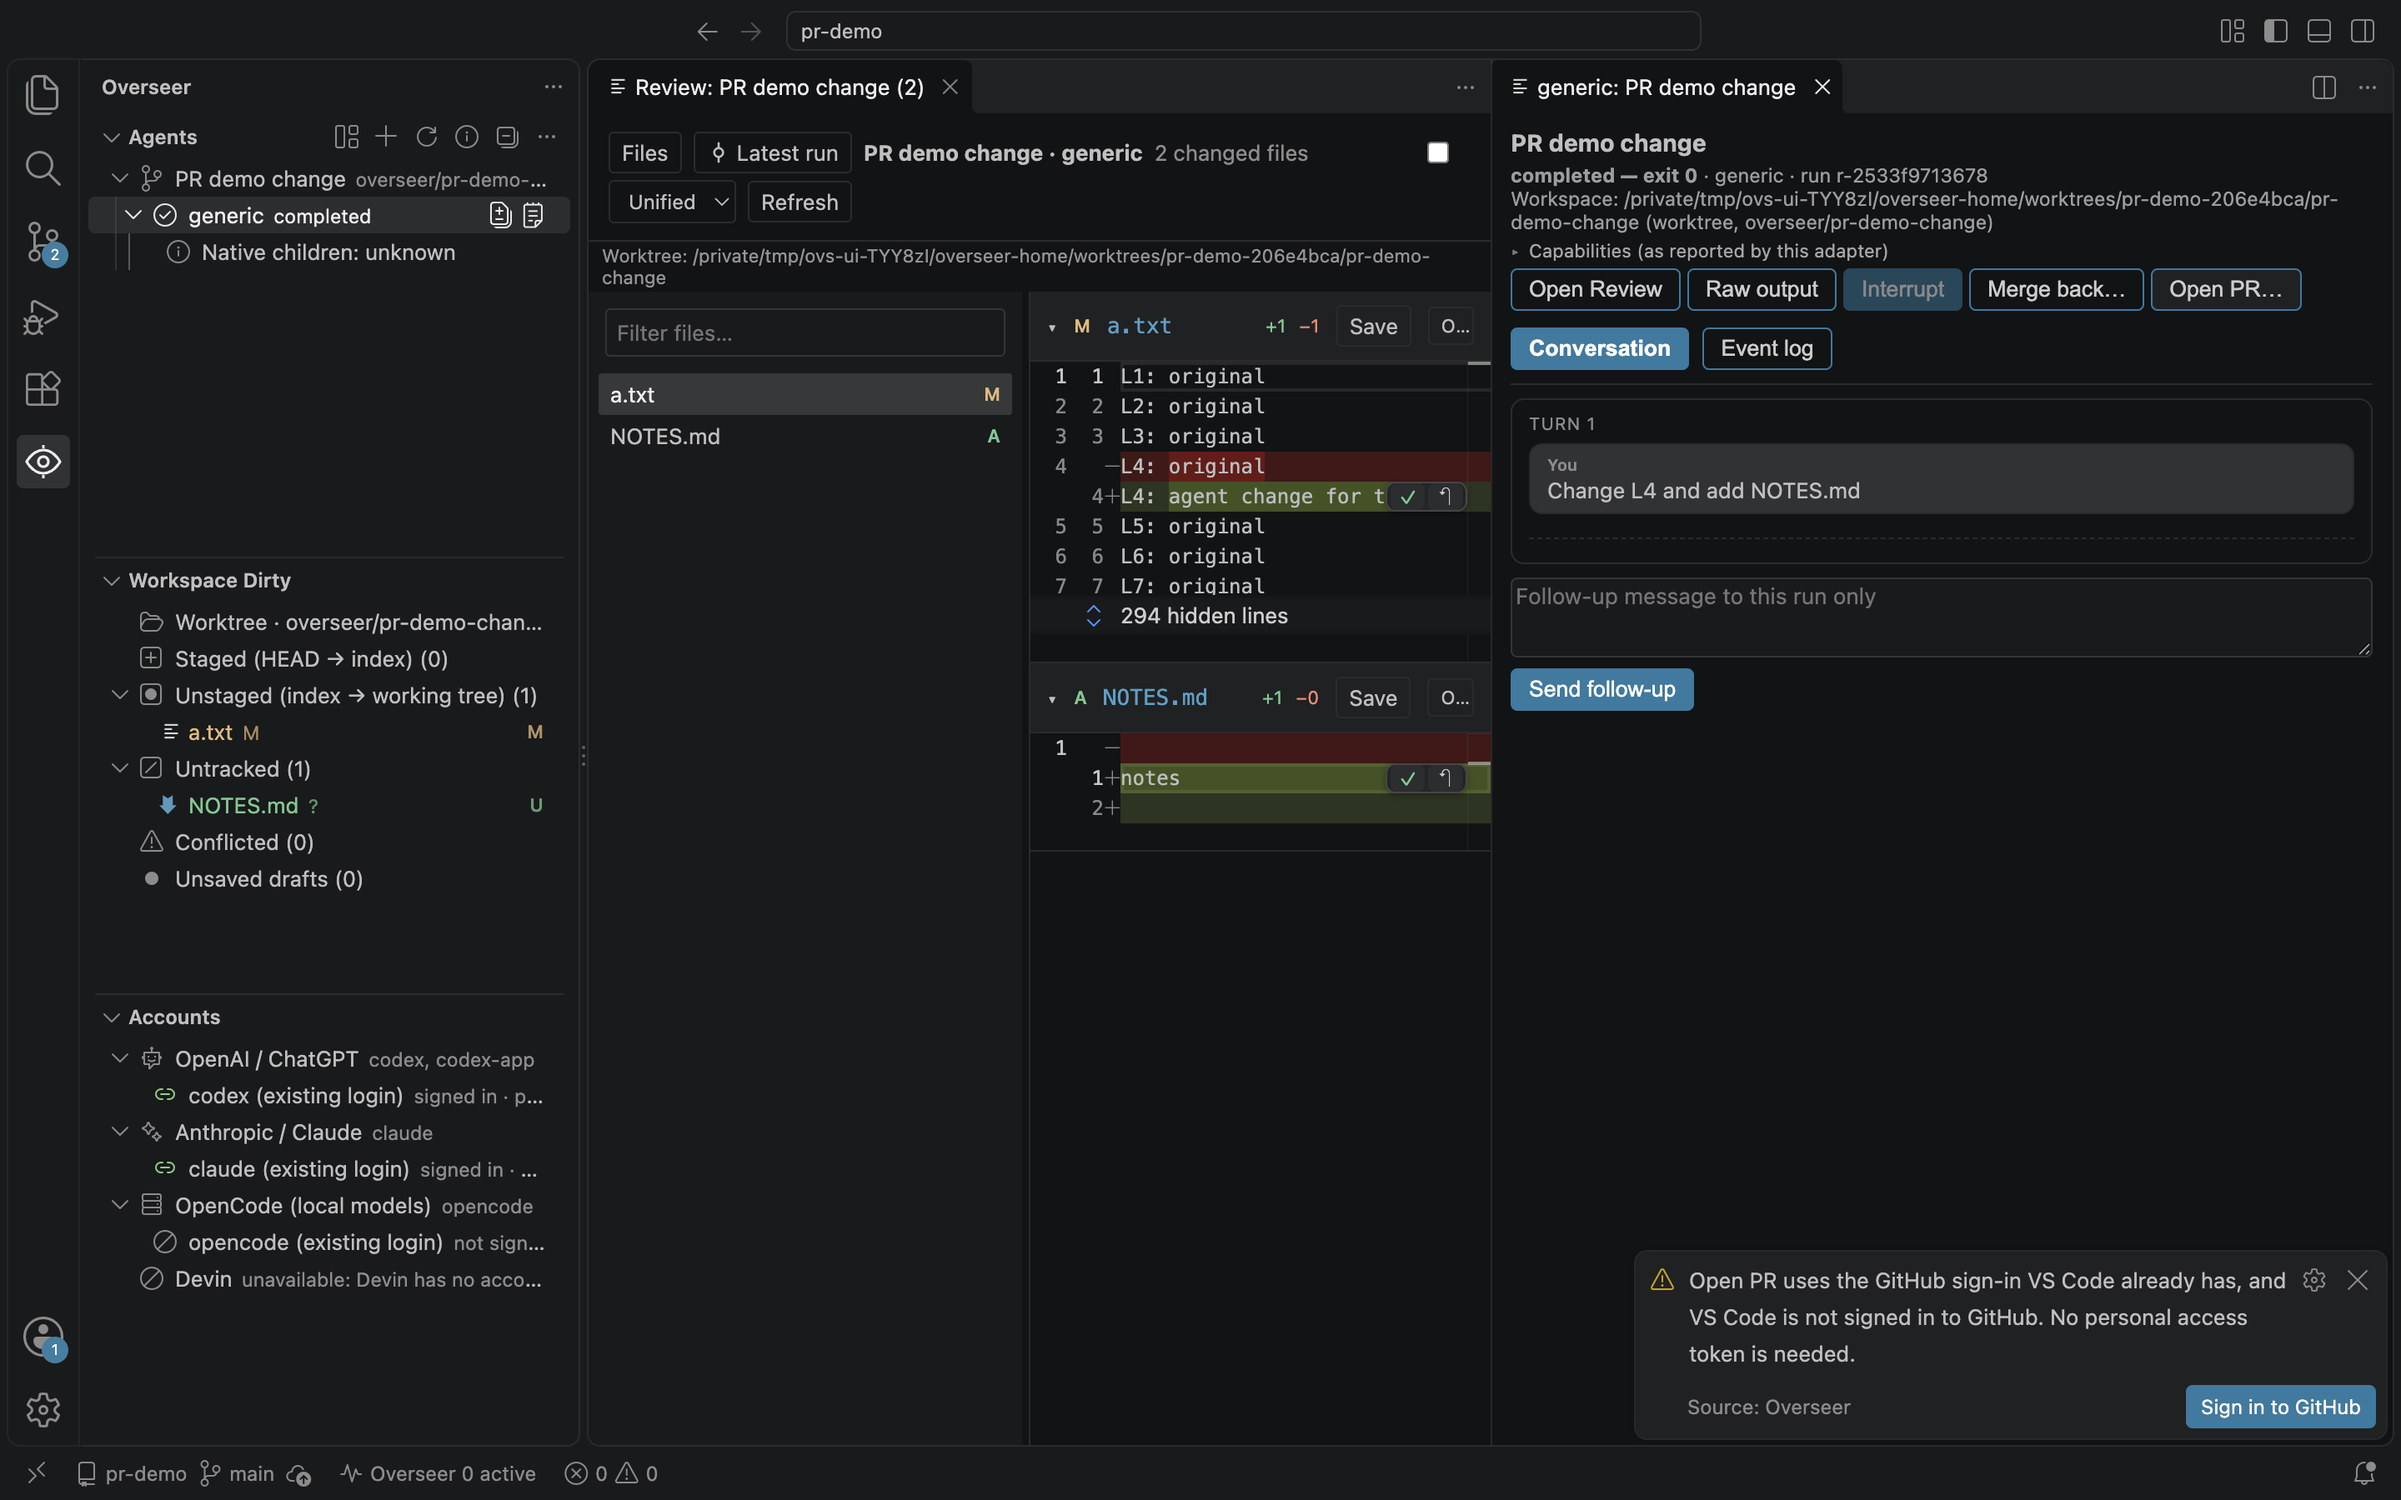
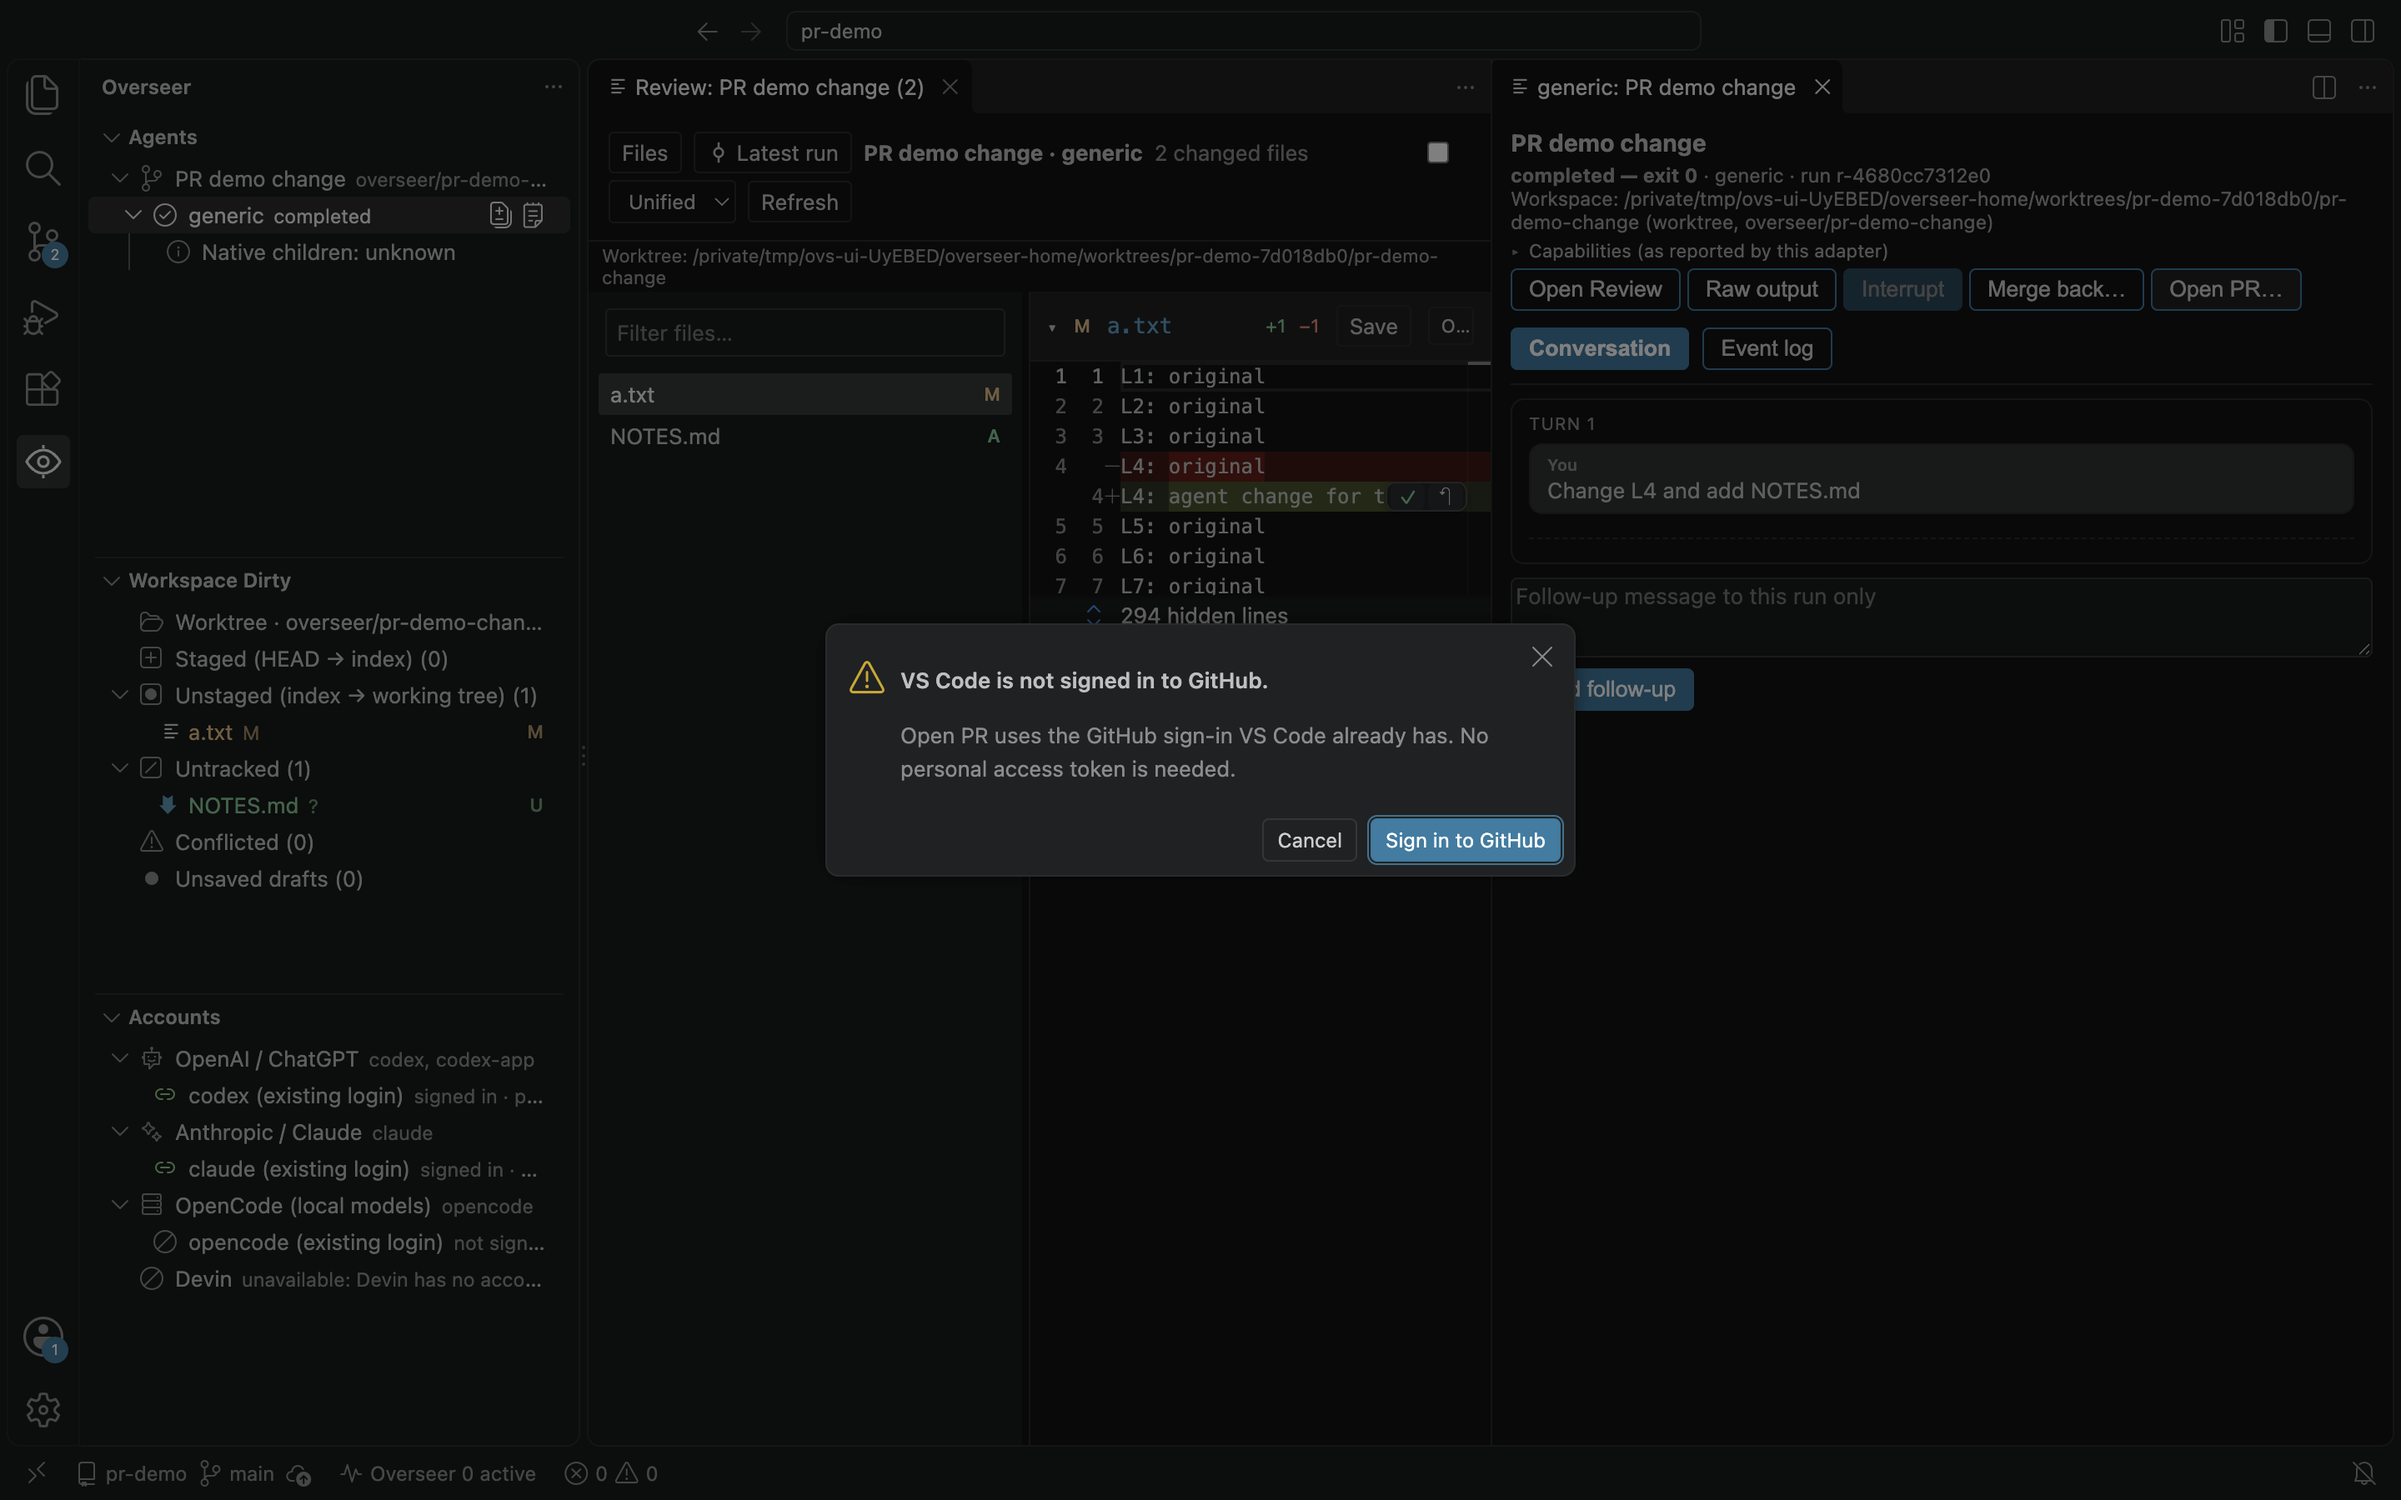
fix(pr): answer Open PR with dialogs so Do Not Disturb cannot hide it
With VS Code's Do Not Disturb on, the sign-in prompt, the unavailable
reason and the opened PR were invisible toasts, so Open PR looked dead.
They are dialogs now (it only runs on a click), and each step is logged.
The UI scenario runs with Do Not Disturb on.

diff --git a/extension/src/pull-request.js b/extension/src/pull-request.js
@@ -35,7 +35,8 @@ class PullRequests {
     if (isLoopback(api) && process.env.OVERSEER_TEST_GITHUB_TOKEN) return process.env.OVERSEER_TEST_GITHUB_TOKEN;
     let session = await vscode.authentication.getSession('github', ['repo'], { createIfNone: false });
     if (!session) {
-      const choice = await vscode.window.showWarningMessage('Open PR uses the GitHub sign-in VS Code already has, and VS Code is not signed in to GitHub. No personal access token is needed.', 'Sign in to GitHub');
+      this.log('open PR: VS Code has no GitHub session with repo access');
+      const choice = await vscode.window.showWarningMessage('VS Code is not signed in to GitHub.', { modal: true, detail: 'Open PR uses the GitHub sign-in VS Code already has. No personal access token is needed.' }, 'Sign in to GitHub');
       if (choice !== 'Sign in to GitHub') return undefined;
       session = await vscode.authentication.getSession('github', ['repo'], { createIfNone: true });
     }
@@ -53,7 +54,7 @@ class PullRequests {
   async pick() {
     const runs = this.model.state.runs.filter(r => !r.parent_run_id && this.model.workspace(r.workspace_id)?.kind === 'worktree' && !this.model.workspace(r.workspace_id)?.removed_ms)
       .sort((a, b) => b.created_ms - a.created_ms);
-    if (!runs.length) { vscode.window.showInformationMessage('Open PR works on a run in its own worktree, and there are none yet. Start a task in a new worktree first.'); return undefined; }
+    if (!runs.length) { vscode.window.showInformationMessage('No run to open a pull request from.', { modal: true, detail: 'Open PR works on a run in its own worktree, and there are none yet. Start a task in a new worktree first.' }); return undefined; }
     const choice = await vscode.window.showQuickPick(runs.map(r => {
       const task = this.model.task(r.task_id), ws = this.model.workspace(r.workspace_id);
       return { label: task?.title || r.title, description: `${path.basename(task?.repo_root || '')} · ${ws.branch}`, detail: `${r.harness}${r.model ? ' · ' + r.model : ''} · ${r.status}`, run: r };
@@ -68,7 +69,9 @@ class PullRequests {
     if (!picked) return;
     const run = this.model.rootRun(picked);
     const plan = await this.client.request('workspace.pr_plan', { workspace_id: run.workspace_id });
-    if (!plan.ok) { vscode.window.showWarningMessage(`Open PR is unavailable: ${plan.reason}`); return; }
+    this.log(`open PR for ${run.id}: ${plan.ok ? `${plan.owner}/${plan.repo} ${plan.branch} → ${plan.target}` : plan.reason}`);
+    // Dialogs, not toasts: this answers a click, and VS Code's Do Not Disturb hides warning and info toasts.
+    if (!plan.ok) { vscode.window.showWarningMessage('Open PR is unavailable.', { modal: true, detail: plan.reason }); return; }
     const token = await this.token();
     if (!token) return;
     const detail = [`${plan.owner}/${plan.repo}: ${plan.branch} → ${plan.target}`,
@@ -96,7 +99,7 @@ class PullRequests {
       }
       await this.client.request('workspace.pr_opened', { workspace_id: run.workspace_id, url: pr.html_url, number: pr.number || 0 });
       this.log(`pull request ${pr.html_url}`);
-      vscode.window.showInformationMessage(`Pull request #${pr.number} is open: ${pr.html_url}`, 'Open on GitHub').then(choice => { if (choice) vscode.env.openExternal(vscode.Uri.parse(pr.html_url)); });
+      vscode.window.showInformationMessage(`Pull request #${pr.number} is open.`, { modal: true, detail: `${pr.html_url}\n\nNothing was merged.` }, 'Open on GitHub').then(choice => { if (choice) vscode.env.openExternal(vscode.Uri.parse(pr.html_url)); });
       return pr;
     });
   }

diff --git a/test/ui/scenario-pr.js b/test/ui/scenario-pr.js
@@ -33,9 +33,17 @@ const { Session, makeRepo, latestVsix, delay, git, repoRoot } = require('./harne
     await cdp.click(pt.x, pt.y); await delay(1500);
     const panel = await cdp.webview(`document.body.dataset.runId === ${JSON.stringify(t.run.id)} && !!document.getElementById('pr')`, 30000);
     const clickPr = async () => { await panel.waitFor(`!document.getElementById('pr').disabled`, 10000); const p = await s.webviewPoint(panel, '#pr'); await cdp.click(p.x, p.y); await delay(1200); };
-    const toast = pattern => cdp.waitFor(`[...document.querySelectorAll('.notification-toast')].map(t => t.innerText).find(t => ${pattern}.test(t)) || null`, 20000).catch(() => null);
-    const clear = async () => { await cdp.command('Notifications: Clear All Notifications'); await delay(300); };
+    // Open PR answers with dialogs, not toasts (VS Code's Do Not Disturb hides toasts). Read one, then close it.
+    const dialogText = pattern => cdp.waitFor(`(() => { const d = document.querySelector('.monaco-dialog-box'); return d && ${pattern}.test(d.innerText) ? d.innerText : null; })()`, 20000).catch(() => null);
+    const closeDialog = async () => {
+      const b = await cdp.evalWorkbench(`(() => { const d = document.querySelector('.monaco-dialog-box'); const b = d && [...d.querySelectorAll('.monaco-button')].find(b => /^(Cancel|OK)$/.test(b.textContent.trim())); if (!b) return null; const r = b.getBoundingClientRect(); return { x: r.left + r.width / 2, y: r.top + r.height / 2 }; })()`);
+      if (b) await cdp.click(b.x, b.y); await delay(500);
+    };
+    const toast = async pattern => { const t = await dialogText(pattern); return t; };
+    const clear = closeDialog;
 
+    // Like the owner's VS Code: Do Not Disturb on, which hides info and warning toasts.
+    await cdp.command('Notifications: Toggle Do Not Disturb Mode'); await delay(500);
     // No remote.
     await clickPr();
     const noRemote = await toast('/no Git remote/');
